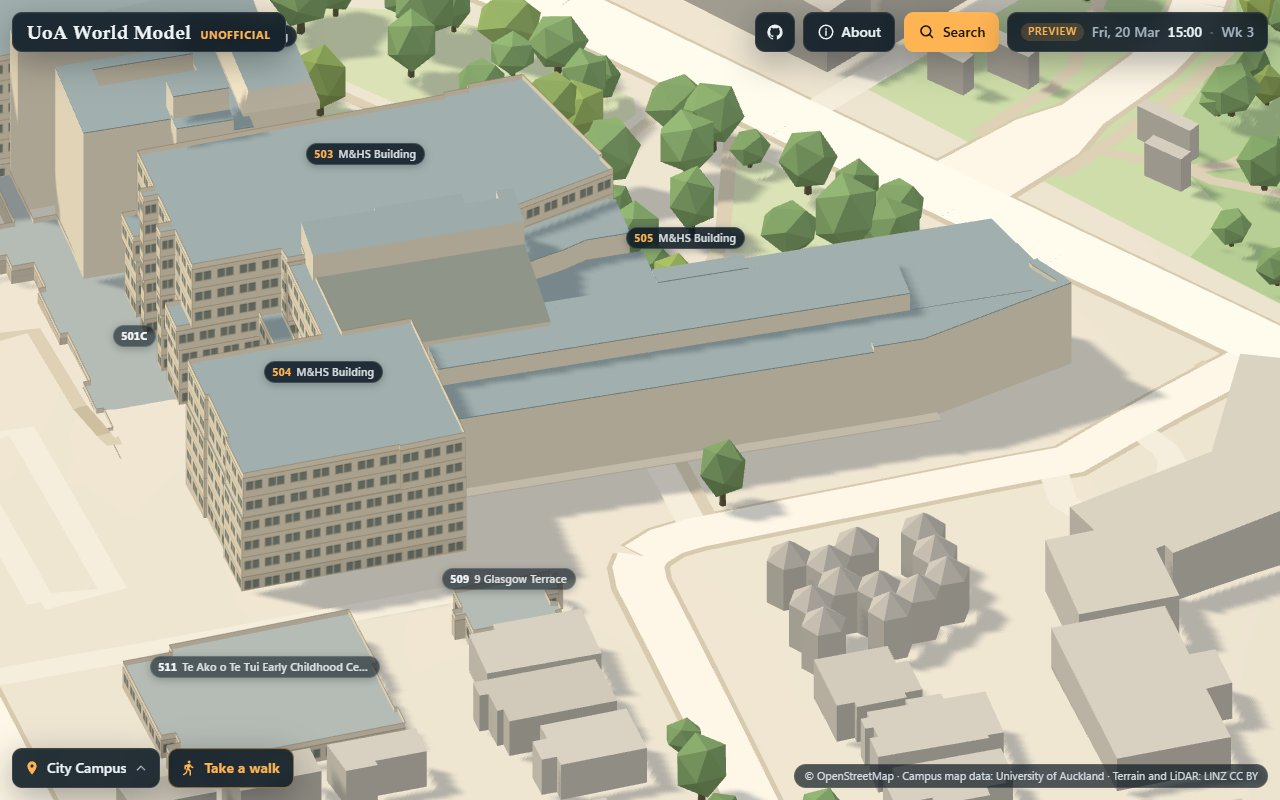
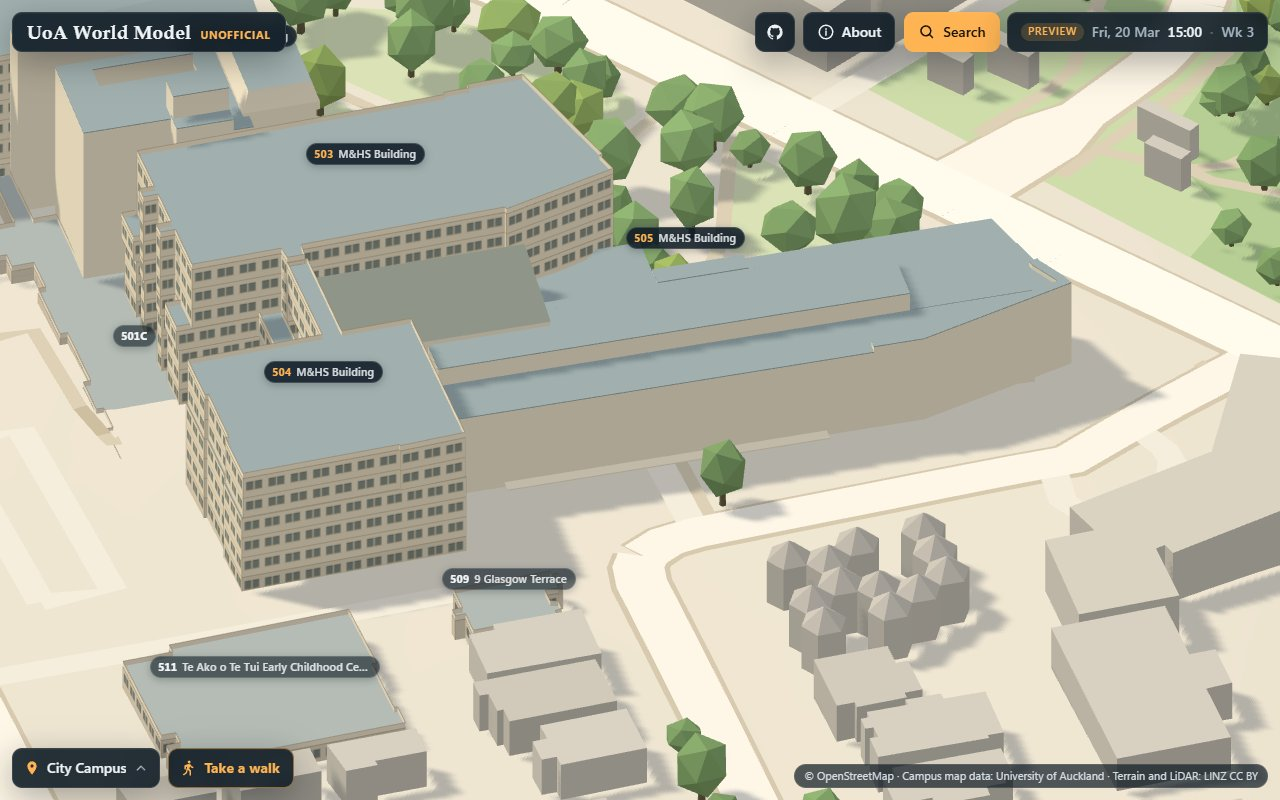
M&HS Building (505), the review's round 2
- 503's roofs' edges dropped: drawn at the LiDAR's heights they stood 4.6 to 4.9 m over block 503 on
  the map, and no recorded decision lets a landmark draw a neighbour's roof. The strip they filled
  (with a slot along the west end against 504, about 330 m²) is drawn by neither once block 505 gives
  way, and the docs say so; drawing it is left to the maintainer.
- The link runs on to w 15.5, where the LiDAR has its roof (17.1 to 17.4 m).
- The ground floor's east wall steps just behind the ground the LiDAR sees under the east end (from
  u 50.5 at the north to 56.6 at the south), and the docs say so; the canopy is drawn only where the
  LiDAR has it outside the south face (u -25 to 23).
- The README's, the CHANGELOG's and the sources table's lists of what is estimated in the photograph
  now match the card; the light note's figure is the compare's, 157 against 177.

1,434 triangles, 5 draw calls. Silhouette IoU 0.936 in the model's screen box; the top view: footprint
IoU 0.925, 92% of the cells within 0.5 m; block 505 under the model 70.0%, the LiDAR's roof in its
ring 84.5%. Landmark tests 15 passed; landmark.spec on the GPU 37 passed. The pictures retaken.

Claude-Session: https://claude.ai/code/session_01WyPcwFTXkmVC7XB6LWPSiH

Changed region(s): [[0.2188, 0.25, 0.5, 0.375], [0.75, 0.0312, 0.7812, 0.0625], [0.6562, 0.0312, 0.6875, 0.0625]]

diff --git a/landmarks/mhs-building-505/parts/common.js b/landmarks/mhs-building-505/parts/common.js
@@ -17,8 +17,8 @@
 // and north of the atrium 503, each drawn by its own block. The campus map's outlines of 505 lie about 7 m
 // north-north-east of the LiDAR's building (its storeys fit the LiDAR's when moved so): its ring takes in 10 to 12 m
 // of the plaza north of the block, where the LiDAR has only the ground, and the south edges of 503's roofs north of
-// the atrium and the link, which block 503 as the site draws it does not reach. The model draws those edges too
-// (EDGE), plainly, so that the map keeps the roof that block 505 drew there.
+// the atrium and the link, which block 503 as the site draws it does not reach: once block 505 gives way to the model,
+// no block draws them (as on main for 501's strip beside 503).
 export const at = (u, w) => [-u, w];
 /** A height measured above 72.13 m (the provisional ground), as one above the door's ground, 0.03 m higher. */
 export const H = (h) => h - 0.03;
@@ -53,30 +53,19 @@ export const MIDDLE = {
 export const TOP_N = H(17.45), TOP_E = H(17.8), TOP_S = H(17.7);
 
 // The ground floor, under the upper storeys, which stand on it from the first floor's slab at 3.9 m (estimated) on every
-// side. The LiDAR sees the ground under the roof up to 3.4 m in from the south face (w -15.0 to -16.0), on the whole
-// width of the east end from u 51 (w -8 to 7.9), and along the cut to w -12.3 to -10.8: its walls stand behind those
-// returns, at w -14.5 on the south, u 50.5 at the east end and on a line between them behind the cut (estimated); on
-// the north, the set-back glass at w 5.4 (the photograph). Before the south face, a canopy at 4.75 m (4.2 to 5.1),
-// 1.8 m out (to w -20.1), u -31 to 39.5 (285 returns).
+// side. The LiDAR sees the ground under the roof up to 3.4 m in from the south face (w -15.0 to -16.0), under the east
+// end from u 50.5 (w 3 to 7.9), 52.0 (w -1 to 3), 53.4 (w -5 to -1) and 56.6 (w -10 to -6), and along the cut to
+// w -12.3 to -10.8: its walls stand just behind those returns, at w -14.5 on the south, stepping at the east end and on
+// a line between them behind the cut (estimated); on the north, the set-back glass at w 5.4 (the photograph). Before
+// the south face, a canopy at 4.75 m (4.2 to 5.1), 1.8 m out (to w -20.1), where the LiDAR has it outside the face,
+// u -25 to 23.
 export const GROUND = {
-  plan: [[WEST_U, -14.5], [38.0, -14.5], [44.0, -12.0], [50.5, -10.5], [50.5, 5.4], [4.0, 5.4], [4.0, NORTH_W],
+  plan: [[WEST_U, -14.5], [38.0, -14.5], [44.0, -12.0], [50.5, -10.5], [56.0, -10.5], [56.0, -5.0], [53.2, -5.0],
+    [53.2, -1.0], [51.8, -1.0], [51.8, 3.0], [50.3, 3.0], [50.3, 5.4], [4.0, 5.4], [4.0, NORTH_W],
     [-14.5, NORTH_W], [-14.5, -4.5], [WEST_U, -4.5]],
   slab: H(3.9),
 };
-export const CANOPY = { u: [-31.0, 39.5], w: [-20.1, SOUTH_W + 0.1], y: [H(4.55), H(4.75)] };
-
-// The south edges of 503's roofs inside 505's ring, which no block draws once block 505 gives way to the model (the
-// LiDAR's roof cells there under neither the model nor another block, 335 m²): north of the atrium, to block 503's
-// edge (w 15.5 to 17.5), its roof rising from 28.7 m at the atrium to 29.8 m (29.0 to 29.3 at their middle); north of
-// the link, to the ring's edge (w 18 to 22), 503's east wing at 21.0 m (20.9 to 21.0). Drawn plainly.
-export const EDGE = {
-  // north of the atrium, in four strips by how far block 503 leaves it; each roof rising 0.16 m a metre from w 10.3
-  high: { strips: [[[-46.0, -35.0], 17.0], [[-35.0, -22.0], 17.5], [[-22.0, -17.0], 15.5], [[-17.0, -14.5], 17.0]],
-    w0: 10.3, eave: H(28.7), rise: 0.16 },
-  // north of the link
-  low: { plan: [[-14.5, 10.3], [-12.5, 11.0], [-8.5, 12.0], [-4.5, 13.5], [2.0, 13.5], [2.0, 21.5], [1.0, 22.0], [-14.5, 17.9]],
-    top: H(21.0) },
-};
+export const CANOPY = { u: [-25.0, 23.0], w: [-20.1, SOUTH_W + 0.1], y: [H(4.55), H(4.75)] };
 
 // The north face. The photograph, through its fitted camera, gives what the LiDAR does not see (estimated): a ground
 // floor set back under the upper storeys to 4.6 m (the soffit; 3.9 to 4.9 along the face); a white panel wall at the
@@ -112,10 +101,11 @@ export const EAST_GLASS = { w: [-4.3, NORTH_W], y: [H(4.4), TOP_N] };
 // drawn as one slope.
 export const ATRIUM = { u: [-45.5, -14.5], w: [-4.5, 10.3], low: H(21.6), high: H(24.6) };
 // The low link north of the block's west part, between the end bay and 503's east wing: u -14.5 (the atrium) to 4.0,
-// from the north face to w 10.3 to 13.5 (where 503's roof, 20.8 m, begins), 17.3 m (17.1 to 17.5); glass under a grey
-// band (the photograph's right edge: estimated).
+// from the north face to w 10.3 to 15.5 (where 503's roof, 20.8 m, begins: w 12 at u -13, 16.5 near u 1.5), 17.3 m
+// (17.1 to 17.5); glass under a grey band (the photograph's right edge: estimated).
 export const LINK = {
-  plan: [[-14.5, NORTH_W], [4.0, NORTH_W], [4.0, 13.5], [-4.5, 13.5], [-8.5, 12.0], [-12.5, 11.0], [-14.5, 10.3]], top: H(17.3),
+  plan: [[-14.5, NORTH_W], [4.0, NORTH_W], [4.0, 15.5], [-2.5, 15.5], [-4.5, 13.5], [-8.5, 12.0], [-12.5, 11.0], [-14.5, 10.3]],
+  top: H(17.3),
 };
 // The low strip west of the atrium, inside the ring: u -48.5 to -45.5, w -4.5 to 9.0, 16.8 m (16.7 to 16.9).
 export const WEST = { u: [-48.5, -45.5], w: [-4.5, 9.0], top: H(16.8) };

diff --git a/landmarks/mhs-building-505/parts/block.js b/landmarks/mhs-building-505/parts/block.js
@@ -2,9 +2,9 @@
 // corner and the canopy before its south face (`body`); its north face, with the white end walls, the fins and louvres
 // over the set-back glazing, the parapet, the first floor's slab edge, the columns and the ground floor's glass, and the
 // east face's glass (`north`); the atrium at its west end, the link north of it and the low strip west of the atrium
-// (`west`); and the edges of 503's roofs inside 505's ring (`edge`). Sizes from common.js.
+// (`west`). Sizes from common.js.
 import {
-  ATRIUM, BACK, BAND, BAYS, CANOPY, COLUMNS, EAST_GLASS, EDGE, END_BAY, FIN, FOOT, FRONT, GLAZING, GROUND, LINK, LOUVRES,
+  ATRIUM, BACK, BAND, BAYS, CANOPY, COLUMNS, EAST_GLASS, END_BAY, FIN, FOOT, FRONT, GLAZING, GROUND, LINK, LOUVRES,
   MIDDLE, NORTH_W, SOFFIT, SOUTH_W, STOREY_GLASS, TOP_E, TOP_N, TOP_S, WEST, WEST_U, at, eastU, plan, rect,
 } from "./common.js";
 import { block, inset, prism, tris } from "./shapes.js";
@@ -110,12 +110,4 @@ export function west(b) {
   prism(b, plan(LINK.plan), FOOT, LINK.top - 1.5, GLASS);
   block(b, plan(LINK.plan), LINK.top - 1.5, LINK.top, DARK, ROOF);
   block(b, rect(WEST.u, WEST.w), FOOT, WEST.top, WALL, ROOF);
-}
-
-/** The south edges of 503's roofs inside 505's ring, north of the atrium (its roof rising to the north) and of the link,
- * drawn plainly. */
-export function edge(b) {
-  const E = EDGE.high;
-  for (const [u, w1] of E.strips) wedge(b, u, [E.w0, w1], E.eave, E.eave + E.rise * (w1 - E.w0), WALL, ROOF);
-  block(b, plan(EDGE.low.plan), FOOT, EDGE.low.top, WALL, ROOF);
 }

diff --git a/landmarks/mhs-building-505/model.js b/landmarks/mhs-building-505/model.js
@@ -3,13 +3,12 @@
 // `only` (the viewer's ?only=body) builds just those parts. Every landmark's model.js exports build(materials, only),
 // which returns a Group. The parts are drawn in the view frame.
 import { Builder } from "../kit/gothic.js";
-import { body, edge, north, west } from "./parts/block.js";
+import { body, north, west } from "./parts/block.js";
 
 const PARTS = {
   body: (b) => body(b),
   north: (b) => north(b),
   west: (b) => west(b),
-  edge: (b) => edge(b),
 };
 
 export function build(materials, only) {

diff --git a/README.md b/README.md
@@ -735,14 +735,15 @@ concrete panels over a ground floor set back under its upper storeys, behind rou
 face, toward a plaza, twelve bays of silver fins and louvres over set-back glazing between a white wall at each end,
 glass at its north-east corner and a dark band round its cut south-east corner; over the parapet a higher middle of the
 roof, and at its west end an atrium under a glass roof. Its heights and plans come from the LiDAR, and so does its
-outline: the campus map's lies about 7 m north-north-east of it, over the plaza, and gives it the south edges of the
-next building's roofs, which the model draws plainly. The north face's storeys, how far its glazing stands behind the
-fins, the louvres' spacing, the ground floor's set-back and columns, the end bay's windows and the east face's glass are
-estimated with the photograph as a reference. One photograph from the main road north-east of it, about 42 m from its
-north-east corner; counted inside the rectangle the model fills on the screen, its silhouette has an IoU of 0.92 in it,
-and the brightness of its white walls is within 3 of the photograph's. From above its outline covers the LiDAR's with an
-IoU of 0.92, and on 92% of the cells both cover it is within 0.5 m of the LiDAR's height. What the photograph does not
-show is drawn plainly.
+outline: the campus map's lies about 7 m north-north-east of it, over the plaza. The north face's storeys, how far its
+glazing stands behind its fins and louvres, the fins' top and the louvres' spacing, where its end bay and the white wall
+at its north-east corner stop, the ground floor's set-back and its columns there, the end bay's windows and their
+frames, the east face's glass and its foot, and the glazed front and the link under their grey bands are estimated with
+the photograph as a reference. One photograph from the main road north-east of it, about 42 m from its north-east
+corner; counted inside the rectangle the model fills on the screen, its silhouette has an IoU of 0.94 in it, and the
+brightness of its white walls is within 3 of the photograph's. From above its outline covers the LiDAR's with an IoU of
+0.93, and on 92% of the cells both cover it is within 0.5 m of the LiDAR's height. What the photograph does not show is
+drawn plainly.
 
 | | |
 | --- | --- |
@@ -955,7 +956,7 @@ an estimate of 3.6 m a floor, and its windows and roof rims are drawn by rule.
 | A photograph of 49 Symonds Street from Symonds Street to its east | The look its model was compared with while it was drawn, and, as a reference, the heights of the white band along its top, its dark base and its windows and its windows' widths and places, estimated in it through a camera fitted to the LiDAR | Used as a reference only: never published, traced or sampled, and kept on the maintainer's computer. |
 | A photograph of Okareta from the footpath before it | The look its model was compared with while it was drawn, and, as a reference, the places and heights of its windows, its door, its bay's face and its verandah, estimated in it through a camera fitted to the LiDAR | Used as a reference only: never published, traced or sampled, and kept on the maintainer's computer. |
 | A photograph of building 501 of the M&HS Building from the plaza to its east | The look its model was compared with while it was drawn, and, as a reference, the heights of its crown's eave and band, the set-back of its shaft under the crown, the top and floors of the glazed link beside it and its strip of windows, estimated in it through a camera fitted to the LiDAR | Used as a reference only: never published, traced or sampled, and kept on the maintainer's computer. |
-| A photograph of building 505 of the M&HS Building from the main road to its north-east | The look its model was compared with while it was drawn, and, as a reference, its north face's storeys, how far its glazing stands behind its fins and louvres, the louvres' spacing, its ground floor's set-back and columns, its end bay's windows and its east face's glass, estimated in it through a camera fitted to the LiDAR | Used as a reference only: never published, traced or sampled, and kept on the maintainer's computer. |
+| A photograph of building 505 of the M&HS Building from the main road to its north-east | The look its model was compared with while it was drawn, and, as a reference, its north face's storeys, how far its glazing stands behind its fins and louvres, the fins' top and the louvres' spacing, where its end bay and the white wall at its north-east corner stop, the ground floor's set-back and its columns there, the end bay's windows and their frames, the east face's glass and its foot, and the glazed front and the link under their grey bands, estimated in it through a camera fitted to the LiDAR | Used as a reference only: never published, traced or sampled, and kept on the maintainer's computer. |
 | A photograph of Architecture - West from the paved level to its north | The look its model was compared with while it was drawn, and, as a reference, the storeys' height and the parapets and windows on its north-east faces | Used as a reference only: never published, traced or sampled, and kept on the maintainer's computer. |
 | A photograph of Auckland Bioengineering House from Symonds Street to its north-west | The look its model was compared with while it was drawn, and the place of the second stone fin on its north face, estimated in it through a camera fitted to the LiDAR | Used as a reference only: never published, traced or sampled, and kept on the maintainer's computer. |
 | A photograph of Architecture - East from a paved deck above its raised terrace | The look its model was compared with while it was drawn, and, as a reference, the storeys' height and the parapets, windows and dormers on its faces to the terrace | Used as a reference only: never published, traced or sampled, and kept on the maintainer's computer. |
@@ -1350,22 +1351,25 @@ If you represent the University and would like something changed or removed, ple
   1.7 m.
 - **Building 505 of the M&HS Building is seen from the main road to its north-east only.** One photograph sees its north
   face and the edge of its east face; it is a level picture cut from a wider one, and a smaller picture laid over its
-  corner is left out. The north face's storeys, how far its glazing stands behind its fins and louvres, the louvres'
-  spacing, the ground floor's set-back and its columns, the end bay's windows and their frames and the east face's glass
-  are estimated in the photograph; the LiDAR has a shade over the end bay's top window west of where the photograph has
-  the window, and it is drawn where the LiDAR has it. On its other sides the LiDAR sees the ground under the upper
-  storeys, up to 3.4 m in on the south and across the east end: the ground floor is drawn set back behind that, by an
-  estimated depth. The atrium's glass roof, in vaults across it, is drawn as one slope. Its south face, its west end and
-  the atrium's sides, which no photograph shows, are drawn plainly. The campus map's outlines of 505 lie about 7 m
-  north-north-east of the LiDAR's building: they take in 10 to 12 m of the plaza north of it and miss up to 4 m of its
-  south side, and block 503 as the site draws it stops short of its own roofs' south edges inside 505's outline, so the
-  model draws those edges plainly (at 29 and 21 m, as the LiDAR has them), and 79% of block 505 is under it (96% of the
-  LiDAR's roof in that outline). Its entrance is not known from a record: its door is set on the plaza before the
-  entrance the photograph shows in the north face, where the map's ground lies 1.2 m over the LiDAR's; at the block's
-  south-west corner, on the street, the map's ground rises 2.5 m over the door's where the LiDAR's falls 3.4 m under it,
-  so that corner stands about 6 m less over the drawn ground than over the real one. While a building beside it is open,
-  it gives way to block 505, which sinks to a footprint on its footing, at most 4 m above the lowest ground under it:
-  that footprint stands above the drawn ground on 74% of its cells, by up to 3.1 m.
+  corner is left out. The north face's storeys, how far its glazing stands behind its fins and louvres, the fins' top
+  and the louvres' spacing, where its end bay and the white wall at its north-east corner stop, the ground floor's
+  set-back and its columns there, the end bay's windows and their frames, the east face's glass and its foot, and the
+  glazed front and the link under their grey bands are estimated in the photograph; the LiDAR has a shade over the end
+  bay's top window west of where the photograph has the window, and it is drawn where the LiDAR has it. On its other
+  sides the LiDAR sees the ground under the upper storeys, up to 3.4 m in on the south and deeper under the east end
+  toward its south: the ground floor is drawn set back just behind that, by an estimated depth. The atrium's glass roof,
+  in vaults across it, is drawn as one slope. Its south face, its west end and the atrium's sides, which no photograph
+  shows, are drawn plainly. The campus map's outlines of 505 lie about 7 m north-north-east of the LiDAR's building:
+  they take in 10 to 12 m of the plaza north of it and miss up to 4 m of its south side, and 70% of block 505 is under
+  the model (85% of the LiDAR's roof in that outline). Block 503 as the site draws it stops short of its own roofs'
+  south edges inside 505's outline, and block 504 of a slot up to 2 m wide along the block's west end: once block 505
+  gives way to the model, no block draws these (about 330 m², up to 30 m high). Its entrance is not known from a record:
+  its door is set on the plaza before the entrance the photograph shows in the north face, where the map's ground lies
+  1.2 m over the LiDAR's; at the block's south-west corner, on the street, the map's ground rises 2.5 m over the door's
+  where the LiDAR's falls 3.4 m under it, so that corner stands about 6 m less over the drawn ground than over the real
+  one. While a building beside it is open, it gives way to block 505, which sinks to a footprint on its footing, at most
+  4 m above the lowest ground under it: that footprint stands above the drawn ground on 74% of its cells, by up to 3.1
+  m.
 - **The Fisher Building is seen from Waterloo Quadrant only.** Two Street View panoramas see its west
   and south faces; its faces turned north, east and south-east, which no photograph shows, are tan
   brick with their floor bands, and its roofs are flat. Block 804's outline under the trees by its

diff --git a/landmarks/mhs-building-505/README.md b/landmarks/mhs-building-505/README.md
@@ -43,12 +43,14 @@ other, as it does for every landmark.
   south edges of 503's roofs north of the atrium and the link, which block 503, drawn from its own offset storeys, does
   not reach. `building.outline` is traced from the LiDAR instead (its `outline_note`), so that the top view counts the
   building's own roofs. The model draws what the LiDAR has of 505, the strip along its south side outside the ring
-  too, and those edges of 503's roofs (`EDGE` in `parts/common.js`), plainly at the LiDAR's heights, so that the map
-  keeps the roof block 505 drew there; once block 505 gives way, no block draws them. The atrium's south side and the
-  strip west of it (about 28 m²) lie inside 504's ring only, where the LiDAR has the atrium's roof.
-- 78.9% of block 505 is under the model above 2.5 m; of the LiDAR's roof inside its ring (2,853 m²), 95.5%. Block 504
-  is 6.1% under it and 503 2.7% (the edges of 503's roofs, drawn on a 0.5 m grid). No other block is under it by half,
-  so `building.also` is empty.
+  too. The atrium's south side and the strip west of it (about 28 m²) lie inside 504's ring only, where the LiDAR has
+  the atrium's roof.
+- Drawn by neither: once block 505 gives way to the model, no block draws the south edges of 503's roofs inside 505's
+  ring (a strip up to 7 m wide north of the atrium and the link, at 29 and 21 m) or a slot up to 2 m wide along the
+  block's west end against block 504 (22.8 to 24.6 m): about 330 m² of the LiDAR's roof, which block 505 covered on
+  `main`. Drawing a neighbour's roof is for the maintainer to decide (the pull request's "Not run").
+- 70.0% of block 505 is under the model above 2.5 m; of the LiDAR's roof inside its ring (2,853 m²), 84.5%, the rest
+  being 503's and 504's. Block 504 is 5.9% under it. No other block is under it by half, so `building.also` is empty.
 
 ## The reference
 
@@ -74,10 +76,11 @@ look and the comparison.
 ## The model (`parts/common.js`)
 
 - **The ground floor**, under the upper storeys, which stand on it from the first floor's slab at 3.9 m (estimated):
-  the LiDAR sees the ground under the roof up to 3.4 m in from the south face, on the whole width of the east end from
-  u 51 and along the cut to w -12.3 to -10.8, so its walls stand behind those returns, at w -14.5 on the south, u 50.5
-  at the east end and on a line between them behind the cut (estimated); on the north, the set-back glass (below).
-  Before the south face a canopy at 4.75 m, 1.8 m out (the LiDAR's returns at 4.2 to 5.1 m, u -31 to 39.5).
+  the LiDAR sees the ground under the roof up to 3.4 m in from the south face, under the east end from u 50.5 (w 3 to
+  7.9), 52.0 (w -1 to 3), 53.4 (w -5 to -1) and 56.6 (w -10 to -6), and along the cut to w -12.3 to -10.8, so its
+  walls stand just behind those returns, at w -14.5 on the south, stepping at the east end and on a line between them
+  behind the cut (estimated); on the north, the set-back glass (below). Before the south face a canopy at 4.75 m, 1.8 m
+  out, where the LiDAR has it outside the face (u -25 to 23; its returns at 4.2 to 5.1 m).
 - **The long block**, u -32.7 (against 504) to its east face, w -18.3 to 7.9. Its east face runs 17 degrees off square
   from the north-east corner (54.3, 7.9) to (60.5, -9.0); its south-east corner is cut back on a straight line from
   (61.3, -11.0) to (37.5, -18.3). Its roofs, each drawn flat: the middle at 20.85 m (20.7 to 21.0), w -10.2 to 1.0;
@@ -97,22 +100,19 @@ look and the comparison.
 - **The east face's glass** from the north-east corner to w -4.3, from 4.4 m to the parapet (estimated).
 - **The atrium** at the block's west end, u -45.5 to -14.5 and w -4.5 to 10.3 (where 503's roof begins): its glass
   roof, in vaults across it, rising from 21.6 m at its south side to 24.6 m at its north side, drawn as one slope.
-- **The link** north of the block's west part, u -14.5 to 4.0, to w 10.3 to 13.5 where 503's east wing begins, 17.3 m:
+- **The link** north of the block's west part, u -14.5 to 4.0, to w 10.3 to 15.5 where 503's roofs begin, 17.3 m:
   glass under a grey band (estimated); **the low strip** west of the atrium, u -48.5 to -45.5, 16.8 m.
-- **The edges of 503's roofs** inside 505's ring, drawn plainly: north of the atrium (u -46 to -14.5, to w 15.5 to 17.5
-  where block 503 begins) its roof rising from 28.7 m at the atrium to 29.8 m (29.0 to 29.3 in the middle); north of the
-  link (u -14.5 to 2, to the ring's edge at w 18 to 22) its east wing at 21.0 m.
 - The light: the photograph has no date, and the sun stands high in the north on the north face. The viewer's sun at
   350 degrees round and 50 up, exposure 1.0: the luma of the white wall at the north-east corner 241 against the
   photograph's 240, of the end bay's wall 240 against 243, of the north face between them 143 against 135, of the dark
   band 85 against 91 (the compare's figure, over the model's screen box, where the photograph has the road, cars and a
-  lawn before the ground floor: 152 against 177).
+  lawn before the ground floor: 157 against 177).
 
-Silhouette IoU 0.923 in the model's screen box (0.945 before the ground floor was set back on the south and the east).
-The top view on the traced outline: footprint IoU 0.917 (the LiDAR's 3,273 m² against the model's 3,136, both 3,066),
-92% of the 12,114 cells both cover within 0.5 m (p10/p50/p90 -0.28/0.03/0.36), the highest point 29.78 m against the
-LiDAR's 30.07 (p99.9: 503's roof, beyond the edge the model draws; 505's own highest, the atrium's north side, 24.6 to
-24.9 m, against the model's 24.56). 1,494 triangles, 5 draw calls.
+Silhouette IoU 0.936 in the model's screen box (0.945 before the ground floor was set back on the south and the east).
+The top view on the traced outline: footprint IoU 0.925 (the LiDAR's 2,930 m² against the model's 2,788, both 2,748),
+92% of the 10,847 cells both cover within 0.5 m (p10/p50/p90 -0.29/0.03/0.36), the highest point 24.56 m against the
+LiDAR's 28.78 (p99.9: 503's roof, which the top view's 1.5 m round the outline takes in; 505's own highest, the
+atrium's north side, 24.6 to 24.9 m). 1,434 triangles, 5 draw calls.
 
 ## On the map (step 7)
 
@@ -145,7 +145,7 @@ outline, which takes in the plaza) has gone; `MASSING.md` notes it in the Grafto
   north-east corner stop, the ground floor's set-back and its columns there, the end bay's windows and their frames,
   the east face's glass and its foot, and the glazed front and the link under their grey bands, with a photograph as a
   reference; how far the ground floor stands back on its other sides; the atrium's glass roof, drawn as one slope; and
-  the faces no photograph shows, drawn plainly, as are the edges of the next building's roofs.
+  the faces no photograph shows, drawn plainly.
 - **The pictures** in `docs/landmarks/`: `mhs-building-505-front.jpg` and `-above.jpg` are the viewer's renders of the
   model alone, from the plaza and from above, with no photograph; `-map.jpg` and `-eyes.jpg` are shots of the site
   built from this branch, the map near it and a walker's eyes on the main road north-east of it, where the

diff --git a/landmarks/mhs-building-505/docs/CONTRACT.md b/landmarks/mhs-building-505/docs/CONTRACT.md
@@ -25,16 +25,19 @@ The rules every part of this landmark keeps. The kit, the pipeline and the viewe
     rising from 21.6 m at its south side to 24.6 m at its north side;
   - **a low link** of 17.3 m north of the block's west part (u -14.5 to 4.0), to 503's east wing, beside **a glazed
     front** (u 4.0 to 8.7) under a grey band, and **a low strip** of 16.8 m west of the atrium;
-  - **the ground** under the roof up to 3.4 m in from the south face, across the east end from u 51 and along the cut:
-    the ground floor set back under the upper storeys there, with **a canopy** of 4.75 m before the south face;
+  - **the ground** under the roof up to 3.4 m in from the south face, under the east end (from u 50.5 to 56.6, deeper
+    toward its south) and along the cut: the ground floor set back under the upper storeys there, with **a canopy** of
+    4.75 m before the middle of the south face (u -25 to 23);
   - inside the campus map's ring of 505 but not of it: 10 to 12 m of **the plaza** north of the block (the campus map's
     outlines of 505 lie about 7 m north-north-east of the LiDAR's building), and the south edges of **503**'s roofs
-    (28.7 to 29.8 m and 21.0 m) north of the atrium and the link, which block 503 does not reach;
+    (28.7 to 29.8 m and 21.0 m) north of the atrium and the link, which block 503 does not reach and the model does not
+    draw;
   - the ground: 0 on the plaza north of the block, rising to about +2.5 by the main road at its south-east corner and
     falling to -3.4 along the street south of its west end: walls go down to `FOOT`, -4.5 m over the provisional
     ground.
-- What it draws: what the LiDAR has of 505 (its south side's strip outside the ring too), and, plainly, the south edges
-  of 503's roofs inside 505's ring, which no block draws once block 505 gives way. The outline (`building.outline`) is
+- What it draws: what the LiDAR has of 505 (its south side's strip outside the ring too). Not 503's roofs' edges inside
+  505's ring, nor the slot along its west end against 504, which no block draws once block 505 gives way (about 330 m²):
+  drawing a neighbour's roof is for the maintainer. The outline (`building.outline`) is
   traced from the LiDAR; the campus map's ring is kept as `campus_outline`.
 
 ## Who owns what
@@ -43,7 +46,7 @@ The rules every part of this landmark keeps. The kit, the pipeline and the viewe
 
 ## Budget
 - Whole building ≤ 100k triangles and ≤ 10 draw calls (tier 2, a large teaching building), merged by material. Round
-  0: 208 triangles, 3 draw calls; round 1: 1,270, 5; after the review's round 1: 1,494, 5.
+  0: 208 triangles, 3 draw calls; round 1: 1,270, 5; after the review's round 1: 1,494, 5; after round 2: 1,434, 5.
 
 ## Rounds
 - Round 0 (2026-11-10): the long block's four parts and the atrium, the link and the low strip, at the LiDAR's plans
@@ -90,6 +93,13 @@ The rules every part of this landmark keeps. The kit, the pipeline and the viewe
   storeys under the plaza, and where the map's ground stands highest. 1,494 triangles, 5 draw calls. Silhouette IoU
   0.923 in the model's screen box; the top view: footprint IoU 0.917, 92% of the 12,114 cells within 0.5 m; block 505
   under the model 78.9%, the LiDAR's roof in its ring 95.5%.
+- The review's round 2 (2026-11-10): 503's roofs' edges dropped (they stood 4.6 to 4.9 m over block 503 on the map, and
+  no recorded decision lets a landmark draw a neighbour): the strip is drawn by neither, as the docs say; the link runs
+  on to w 15.5, where the LiDAR has its roof; the ground floor's east wall steps behind the ground the LiDAR sees, the
+  canopy only where the LiDAR has it outside the face (u -25 to 23); the lists of what is estimated in full. 1,434
+  triangles, 5 draw calls. Silhouette IoU 0.936 in the model's screen box, luma 157 against 177 over it; the top
+  view: footprint IoU 0.925, 92% of the 10,847 cells within 0.5 m; block 505 under the model 70.0%, the LiDAR's roof
+  in its ring 84.5%.
 
 ## Rules
 - Measure, don't guess: a size the LiDAR gives is taken from it; one it does not is estimated and said to be.

diff --git a/CHANGELOG.md b/CHANGELOG.md
@@ -23,13 +23,14 @@ A change to what the site does or shows adds its line here, and the README's
   panels over a ground floor set back under its upper storeys, behind round columns on the north; on its north face
   twelve bays of silver fins and louvres over set-back glazing between a white wall at each end, glass at its
   north-east corner and a dark band round its cut south-east corner; over the parapet a higher middle of the roof, and
-  at its west end an atrium under a glass roof; and, plainly, the south edges of the next building's roofs inside its
-  outline on the campus map. Its sizes come from the LINZ 2024 LiDAR; it was compared with a photograph from the main
-  road, and its card says what is estimated: the north face's storeys, how far its glazing stands behind its fins and
-  louvres, the louvres' spacing, the ground floor's set-back and its columns, the end bay's windows and the east
-  face's glass, with the photograph as a reference; how far the ground floor stands back on its other sides; the
-  atrium's glass roof, drawn as one slope; and the faces no photograph shows. On the map it has the map's colours;
-  from a walker's height on a computer with a graphics card, its own panels, fins, glass and roofs (#154).
+  at its west end an atrium under a glass roof. Its sizes come from the LINZ 2024 LiDAR; it was compared with a
+  photograph from the main road, and its card says what is estimated: the north face's storeys, how far its glazing
+  stands behind its fins and louvres, the fins' top and the louvres' spacing, where its end bay and the white wall at
+  its north-east corner stop, the ground floor's set-back and its columns there, the end bay's windows and their
+  frames, the east face's glass and its foot, and the glazed front and the link under their grey bands, with the
+  photograph as a reference; how far the ground floor stands back on its other sides; the atrium's glass roof, drawn
+  as one slope; and the faces no photograph shows. On the map it has the map's colours; from a walker's height on a
+  computer with a graphics card, its own panels, fins, glass and roofs (#154).
 
 ## 2026-11-09
 
